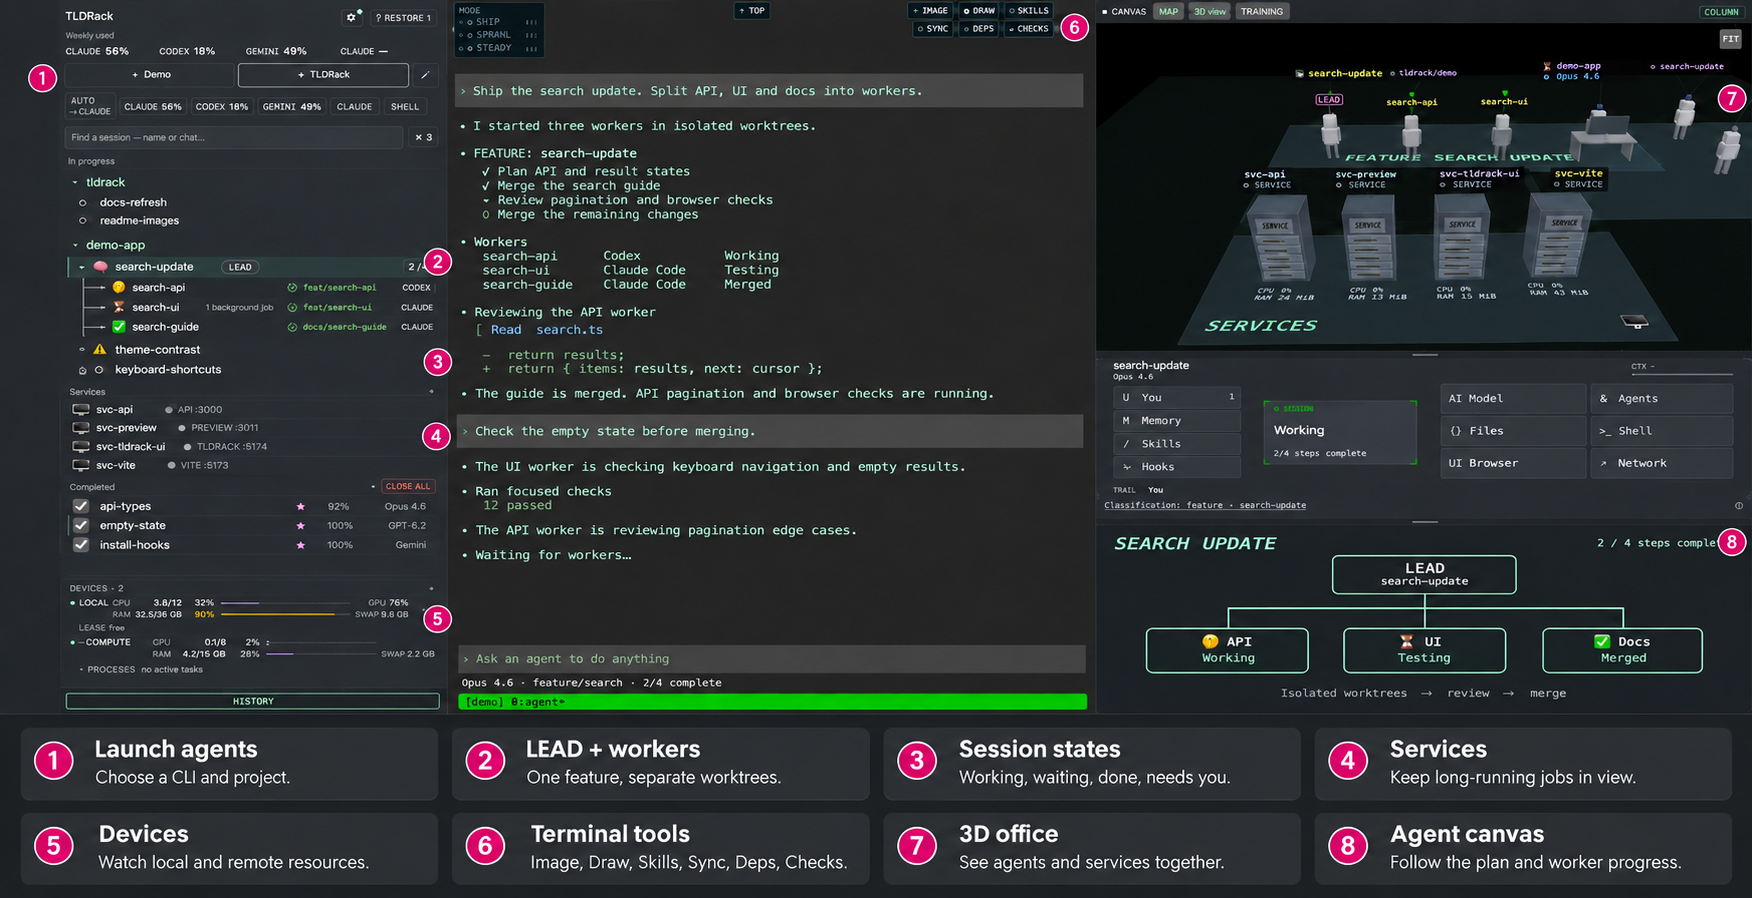
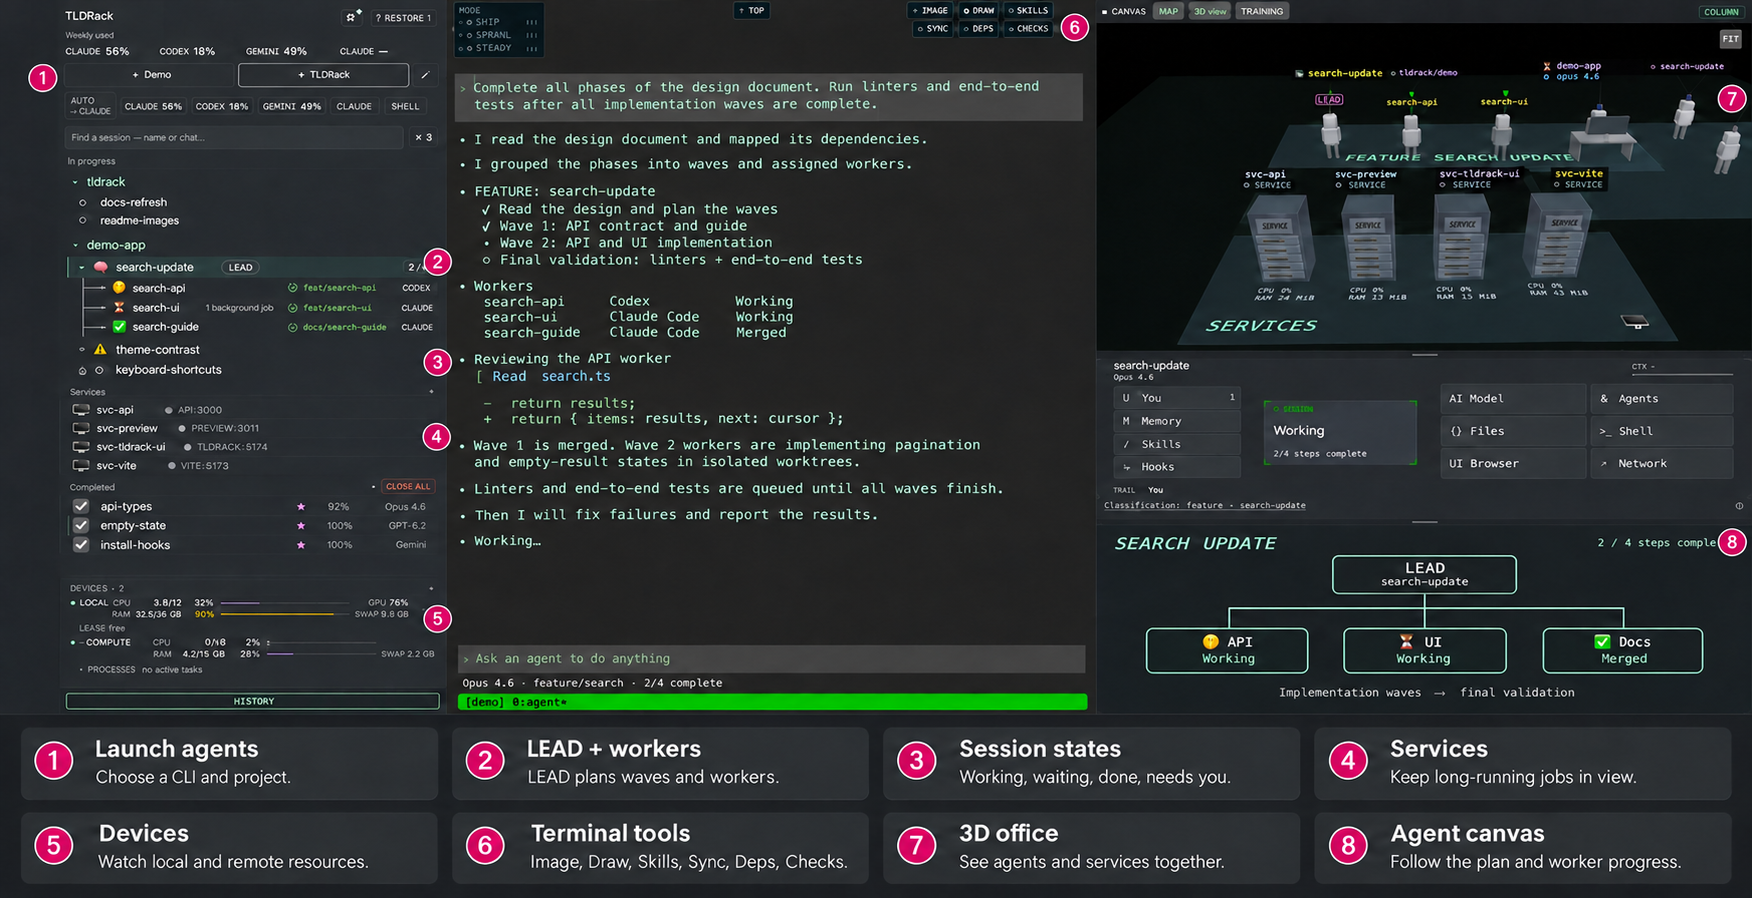
docs: let the LEAD plan the example implementation waves

diff --git a/.claude/skills/readme-images/SKILL.md b/.claude/skills/readme-images/SKILL.md
@@ -33,7 +33,9 @@ For an isolated rack pair, edit `scripts/readme-images/scene.json`:
 
 The default includes one LEAD, three workers, independent sessions, working and waiting states,
 active and merged worktrees, Services, Devices, a terminal, the 3D office, files and a canvas. LEAD and coordinator
-are different features; name the one actually shown.
+are different features; name the one actually shown. The example operator prompt gives the objective
+and constraints; the LEAD response owns planning the waves and assigning workers. Keep any deferred
+validation consistent across the transcript, worker states and canvas.
 
 ## Capture and inspect
 
